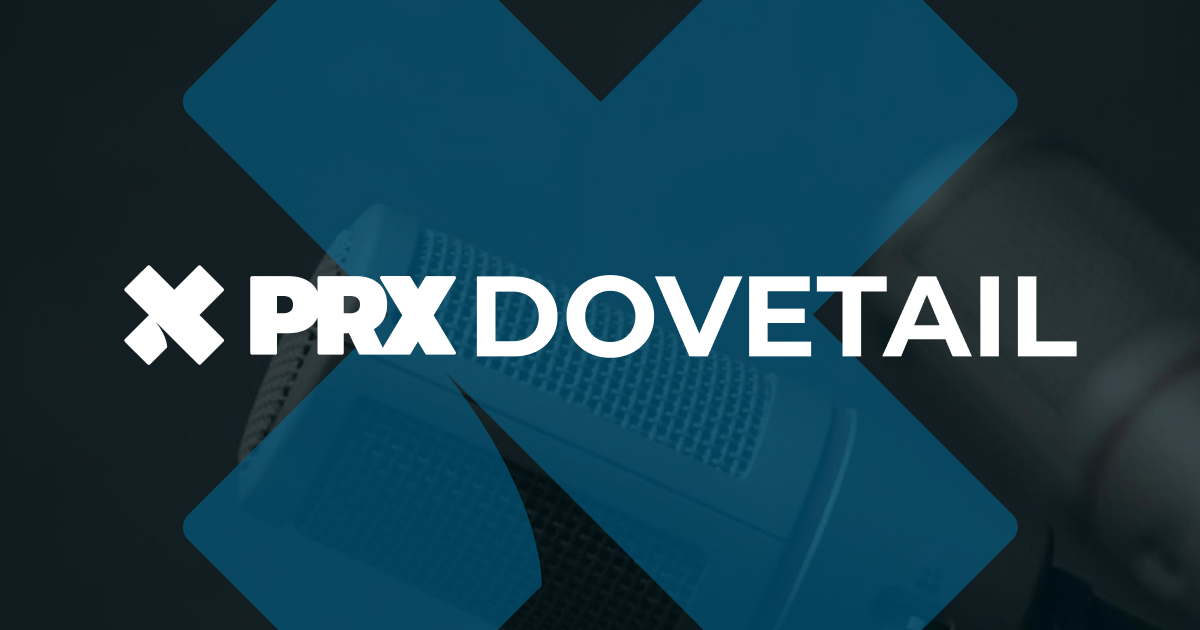
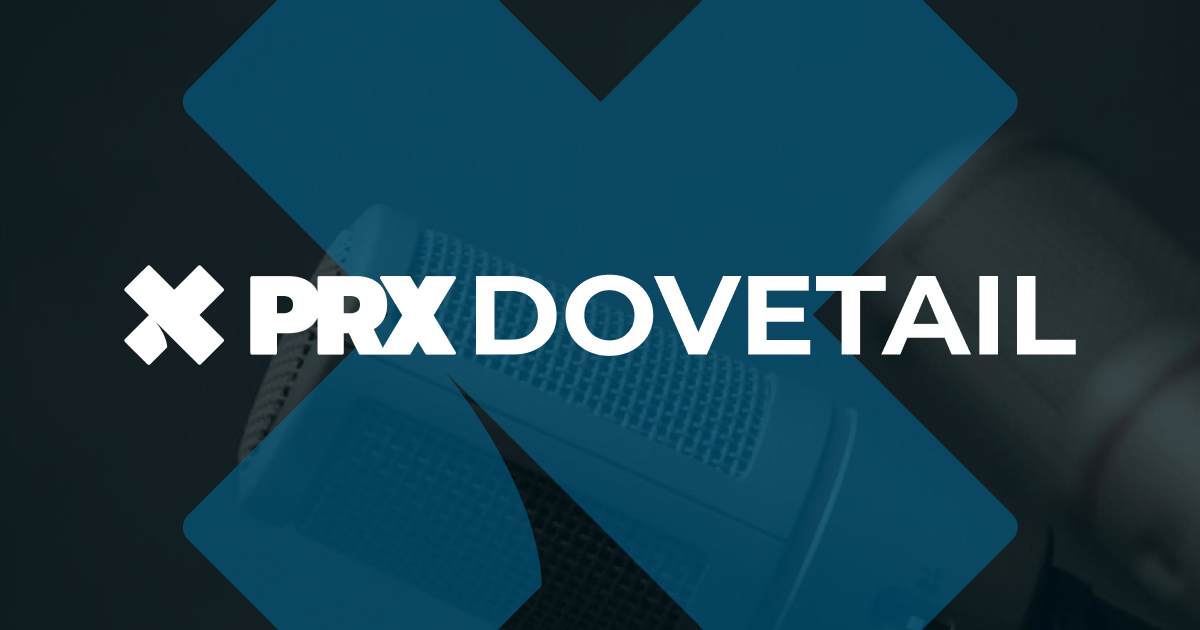
feat(hero): adjust styling

diff --git a/_sass/layout.scss b/_sass/layout.scss
@@ -19,6 +19,10 @@ h1, h2, h3, h4, h5, h6 {
     font-family: $font-family-base;
     font-weight: normal;
   }
+
+  &.fw-bold {
+    font-family: $font-header-base;
+  }
 }
 
 strong,
@@ -127,24 +131,42 @@ background-size: 20px 20px;
 }
 
 .hero {
-  padding-top: 5rem;
-  padding-bottom: 5rem;
+  /*padding-top: 5rem;
+  padding-bottom: 5rem;*/
+  padding: 0;
   position: relative;
+  overflow: hidden;
 
   &.lede {
       padding-top: 10rem;
   }
 
-  h1 {
-    font-family: $font-family-base;
+  .hero-x-content {
+    margin-top: -81px;
+    position: relative;
+    padding-top: calc(8rem + 81px);
+    padding-left: 1.5rem;
+    padding-right: 1.5rem;
+    padding-bottom: 5rem;
+    background: rgb(0,58,87);
+    background: linear-gradient(90deg, rgba(0,58,87,1) 0%, rgba(0,114,163,0.5) 50%, rgba(0,114,163,0) 100%);
 
-    strong {
-      font-family: $font-header-base
+
+    &::before {
+      content: '';
+      left: 0;
+      right: 0;
+      bottom: 0;
+      z-index: 2;
+      position: absolute;
+      width: 100%;
+      height: 100%;
+      background-color: rgba(0,114,163,0.5);
+      clip-path: polygon(0% 0%, 54% 0, 75% 59%, 60% 100%, 0% 100%)
     }
 
-    em {
-      font-family: $font-header-base;
-      font-style: italic;
+    .hero-content-inner {
+      z-index: 5;
     }
   }
 }
@@ -197,18 +219,6 @@ background-size: 20px 20px;
     z-index: 1;
     grid-row: 1 / -1;
     flex-direction: column;
-  }
-}
-
-.half-x-mark {
-  position: relative;
-
-  &::before {
-    content: '';
-    background-image: url(/assets/img/prx-mark.svg);
-    position: absolute;
-    top: 0;
-    left: 0;
   }
 }
 

diff --git a/_sass/navbar.scss b/_sass/navbar.scss
@@ -35,6 +35,10 @@
         margin-left: .5rem;
         width: auto;
       }
+
+      &:hover {
+        border-color: $orange;
+      }
     }
   }
 }

diff --git a/_sass/buttons.scss b/_sass/buttons.scss
@@ -9,6 +9,6 @@
   &:hover {
     background: $white;
     color: $black;
-    border-color: $white;
+    border-color: $orange;
   }
 }

diff --git a/pages/home.md b/pages/home.md
@@ -4,20 +4,27 @@ permalink: /
 image: /assets/img/og-image.jpg
 ---
 
-<section class="text-white lede hero px-4 pb-6 m-0">
+<section class="text-white hero hero-x">
   <div class="hero-image">
-    <div>{% picture img/microphone-x-bg.jpg --alt Podcasting microphones %}</div>
+    <div>{% picture img/microphone-bg.jpg --alt Podcasting microphones %}</div>
   </div>
-  <div class="hero-content container col-xxl-8">
-    <div class="hero-content-inner">
-      <h1 class="display-5"><strong class="fw-bold">Privacy first</strong> podcast distribution for <em>professional producers</em></h1>
-      <div class="mx-auto">
-        <p class="fs-3 mt-2 mb-4">Dovetail helps producers grow, monetize, and sustain their podcasts through Dynamic Ad Insertion to help producers succeed in today’s open podcast ecosystem.</p>
+  <div class="hero-x-content">
+    <div class="hero-content container col-xxl-8">
+      <div class="hero-content-inner col-8">
+        <h1 class="mb-4 fw-bold">Privacy first podcast distribution for <em>professional producers</em></h1>
+        <!--<p class="fs-3 mt-2 mb-4">Dovetail helps producers grow, monetize, and sustain their podcasts through Dynamic Ad Insertion to help producers succeed in today’s open podcast ecosystem.</p>-->
         <div class="d-grid gap-2 d-sm-flex">
           <a href="{% link pages/contact.md %}" type="button" class="btn btn-primary btn-lg px-4 gap-3">Let's Talk</a>
         </div>
       </div>
     </div>
+  </div>
+</section>
+
+<section class="bg-darkblue text-white px-4 py-5">
+  <div class="container col-xxl-8">
+    <p class="fs-3 mt-2 mb-4">Dovetail helps producers grow, monetize, and sustain their podcasts through Dynamic Ad Insertion to help producers succeed in today’s open podcast ecosystem.</p>
+    <p class="fs-4 mt-2 mb-4">Over 260 podcasts are leveraging Dovetail to grow audience and revenue, for an average of 70 million downloads per month.</p>
   </div>
 </section>
 
